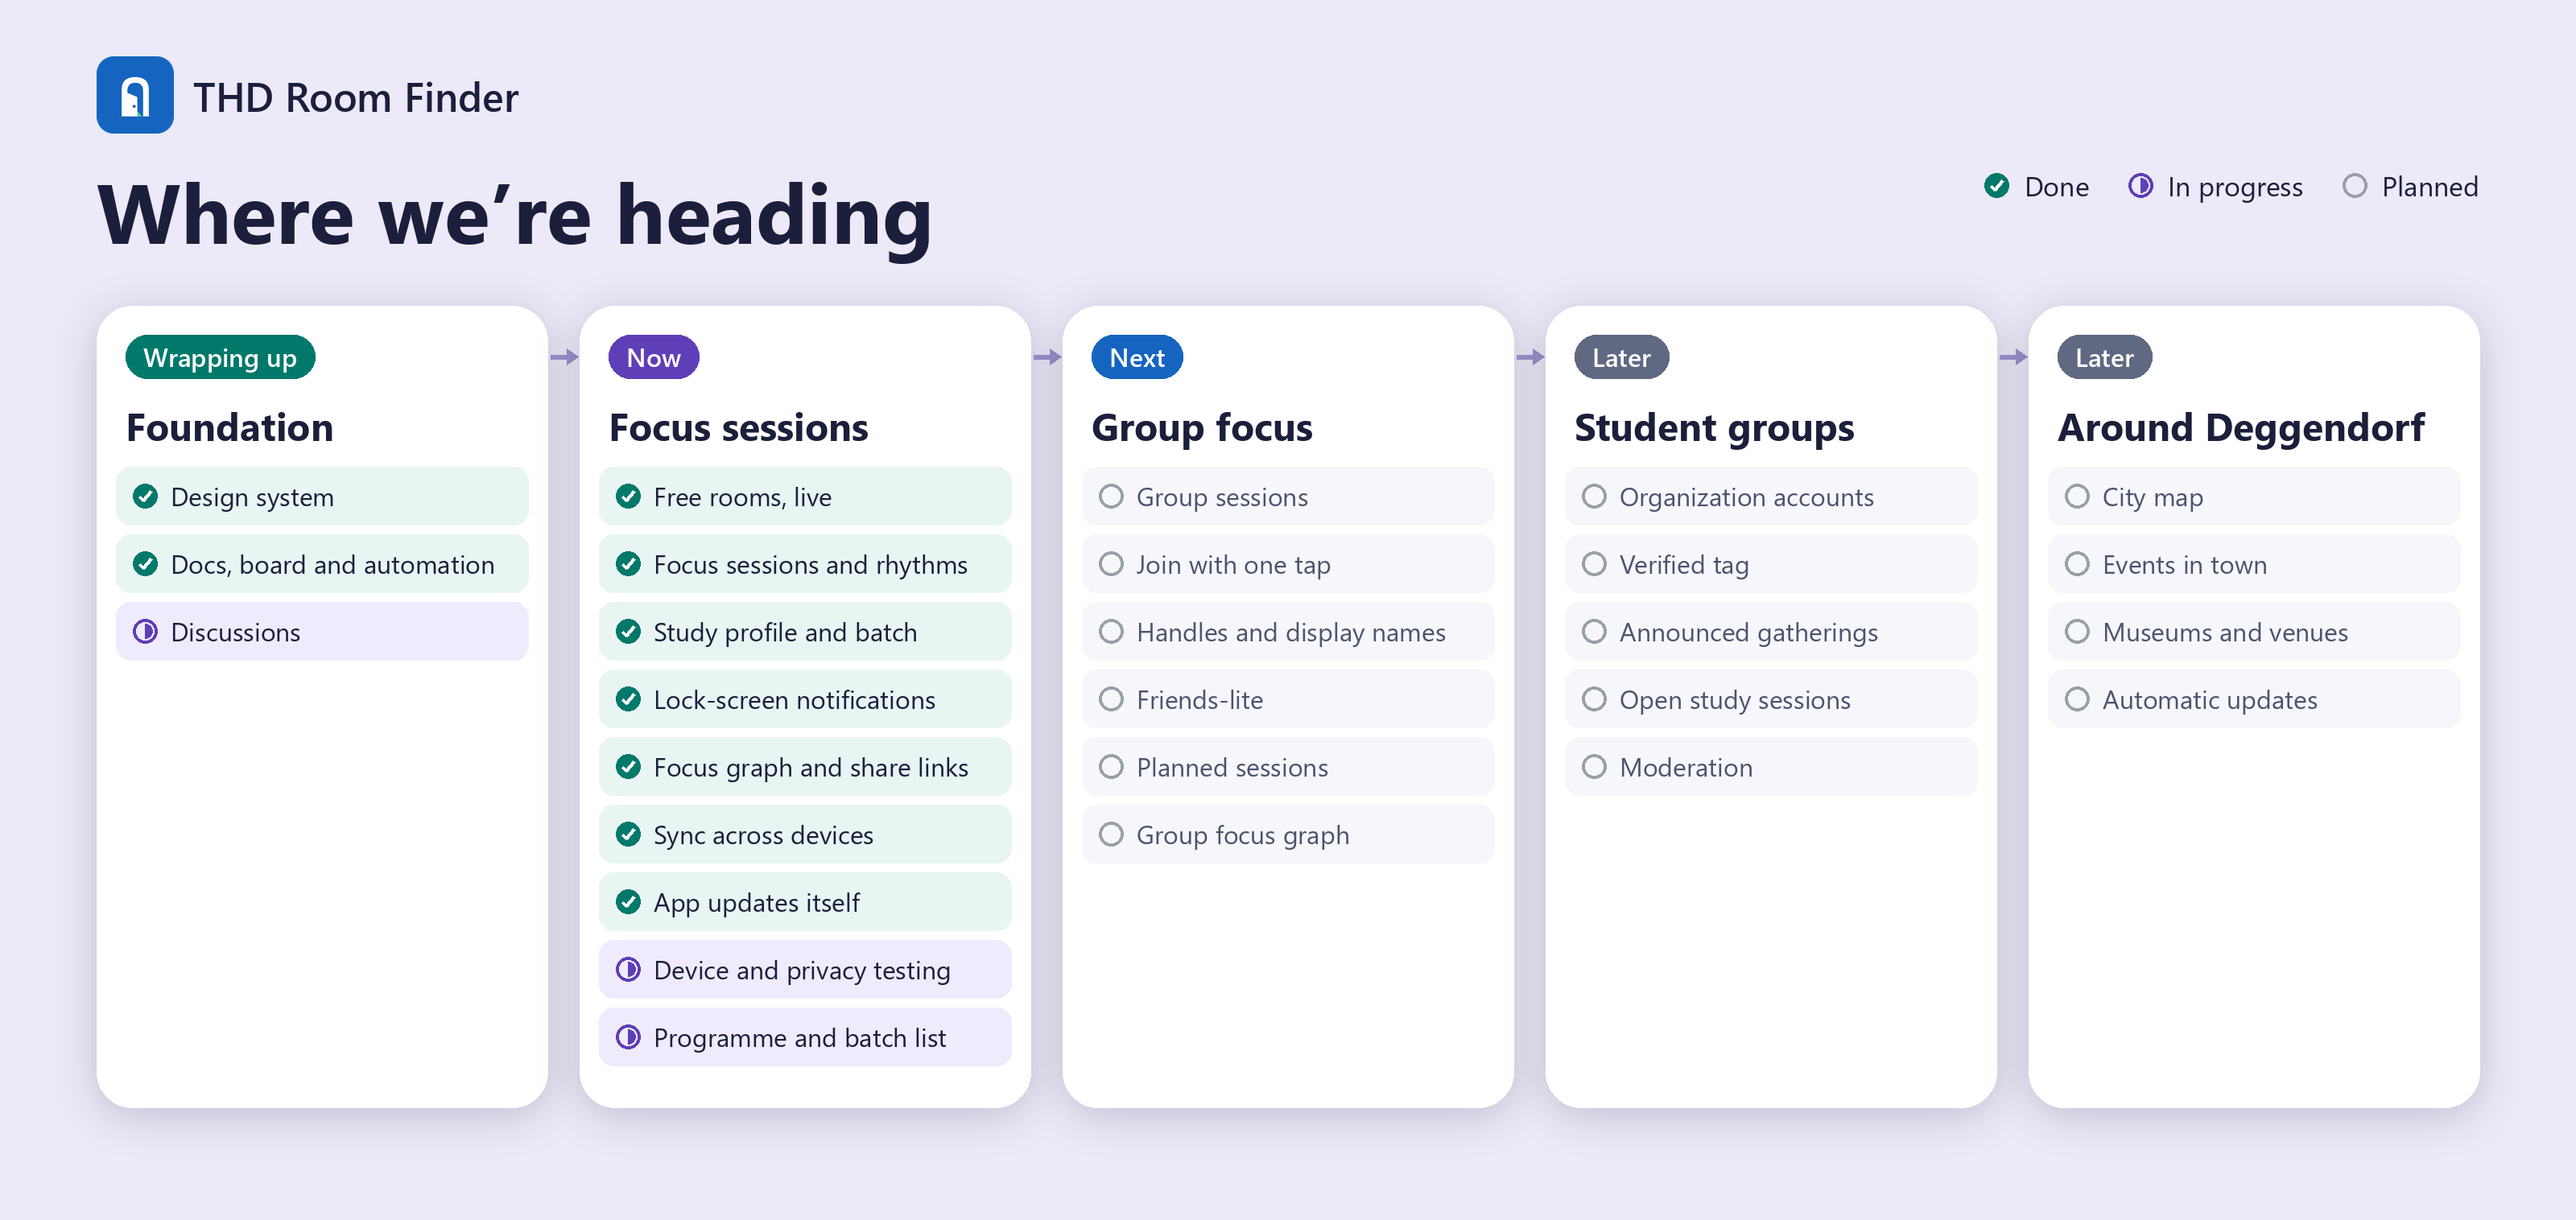
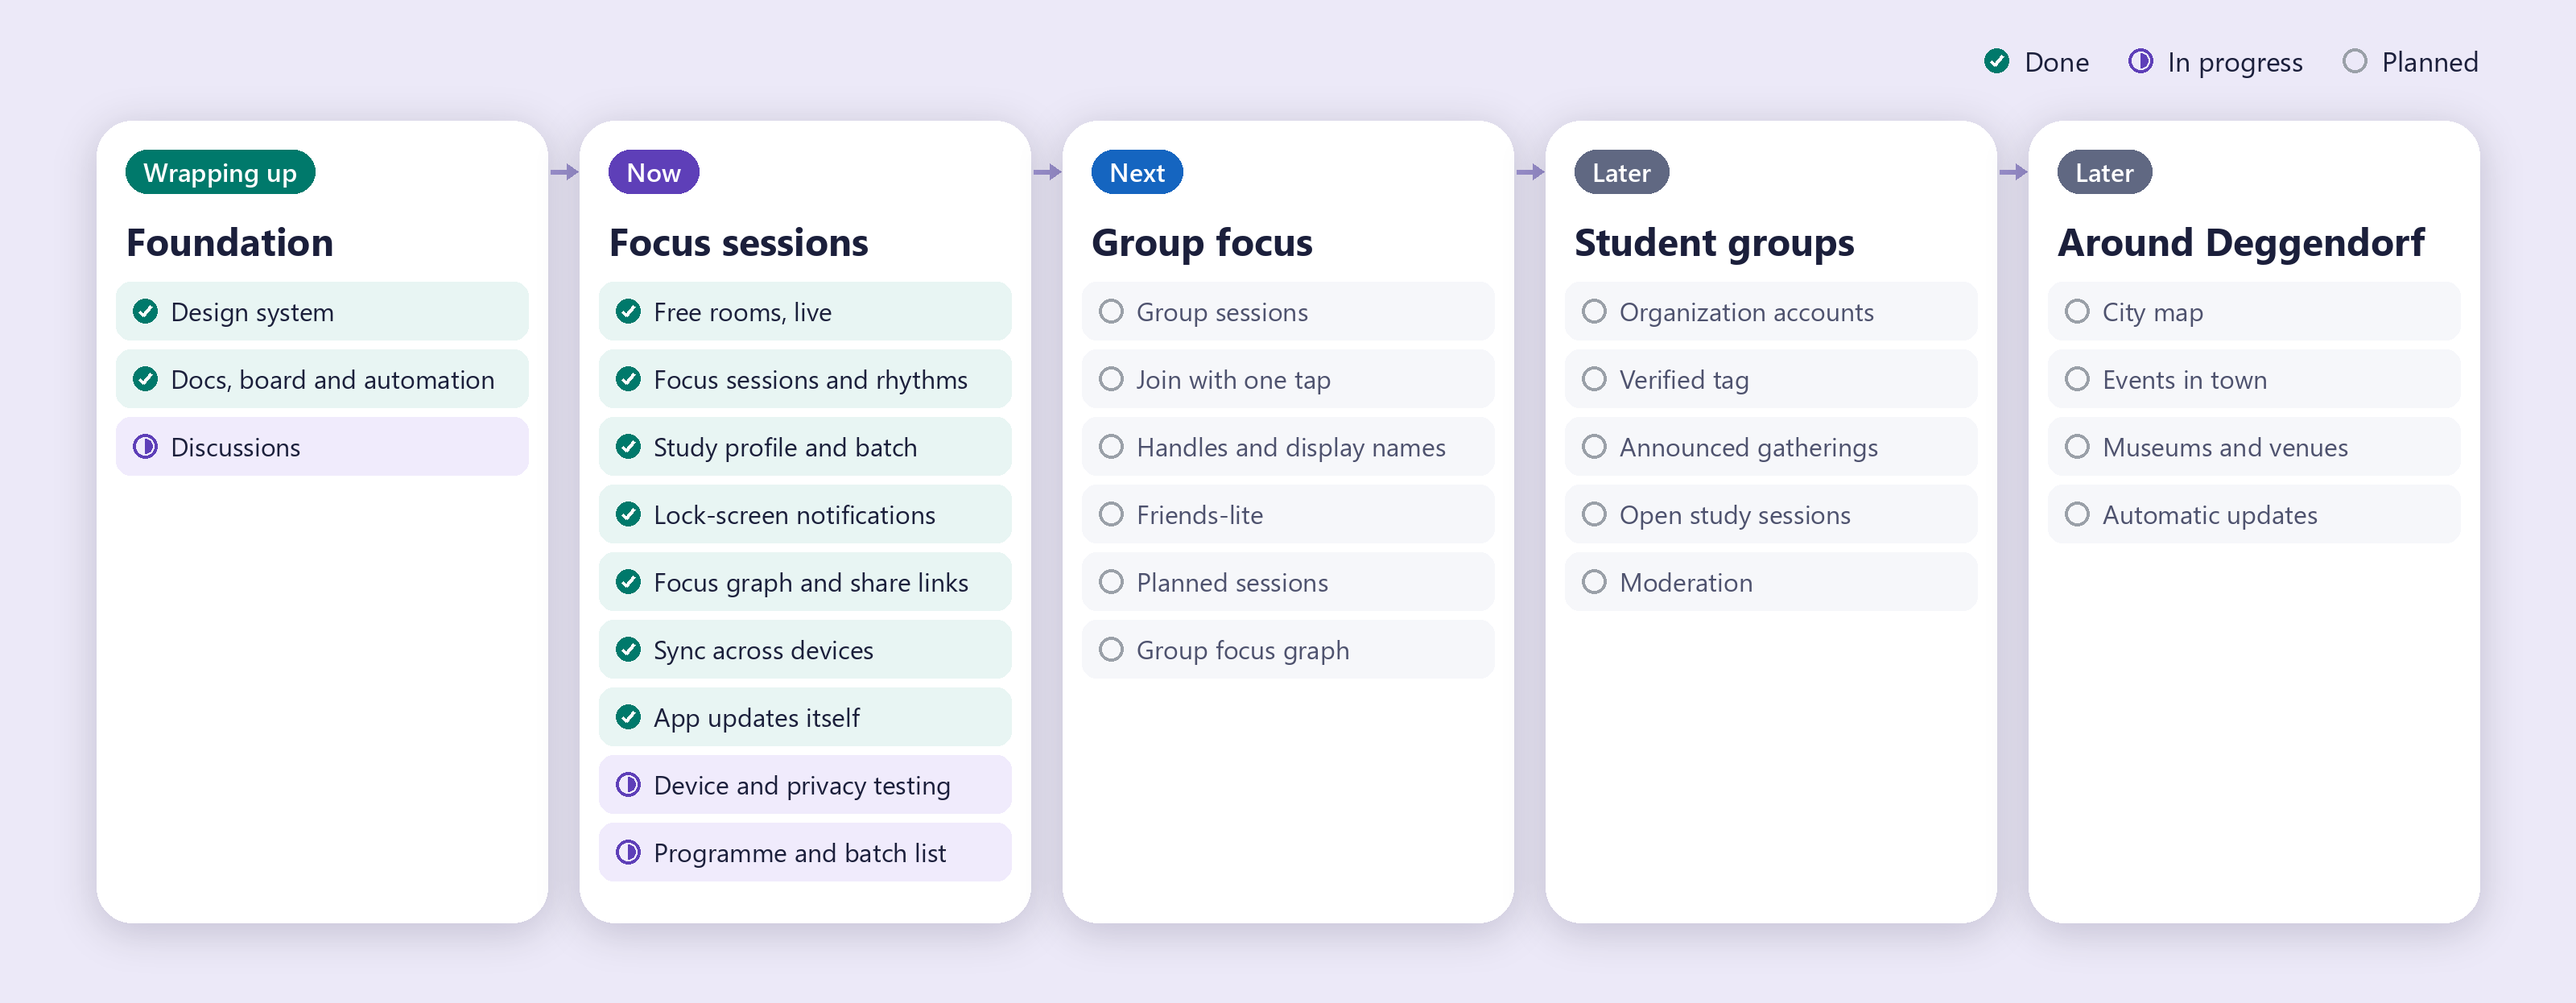
docs(roadmap): drop the heading from the roadmap diagram
- The banner above it in the Roadmap discussion already carries the
  title, so the diagram starts with the legend and the milestones

diff --git a/design/roadmap/build.py b/design/roadmap/build.py
@@ -70,15 +70,12 @@ def marker(d, cx, cy, kind, r=15):
 def diagram():
     data = json.load(open(os.path.join(HERE, 'roadmap.json'), encoding='utf-8'))
     milestones = data['milestones']
-    W, M, GAP, TOP = 3200, 120, 40, 380
+    # No heading: the banner above it in the post carries the title.
+    W, M, GAP, TOP = 3200, 120, 40, 150
     rows = max(len(m['stories']) for m in milestones)
     BOT = TOP + 200 + rows * 84 + 40
-    H = BOT + 140
+    H = BOT + 100
     base = Image.new('RGBA', (W, H), (236, 233, 248, 255))
-    base.alpha_composite(ICON.resize((96, 96), Image.LANCZOS), (M, 70))
-    d = ImageDraw.Draw(base)
-    d.text((M + 120, 118), 'THD Room Finder', font=font(SEMI, 50), fill=NAVY, anchor='lm')
-    d.text((M, 190), data['title'], font=font(BOLD, 104), fill=NAVY)
 
     n = len(milestones)
     CW = (W - 2 * M - (n - 1) * GAP) // n
@@ -108,7 +105,7 @@ def diagram():
             d.polygon([(ax + GAP - 6, ay), (ax + GAP - 20, ay - 10), (ax + GAP - 20, ay + 10)], fill=(150, 140, 200))
 
     d = ImageDraw.Draw(base)
-    lx, ly = W - M, 230
+    lx, ly = W - M, 75
     for label, kind in reversed([('Done', 'done'), ('In progress', 'doing'), ('Planned', 'planned')]):
         lx -= d.textlength(label, font=font(REG, 34))
         d.text((lx, ly), label, font=font(REG, 34), fill=NAVY, anchor='lm')
